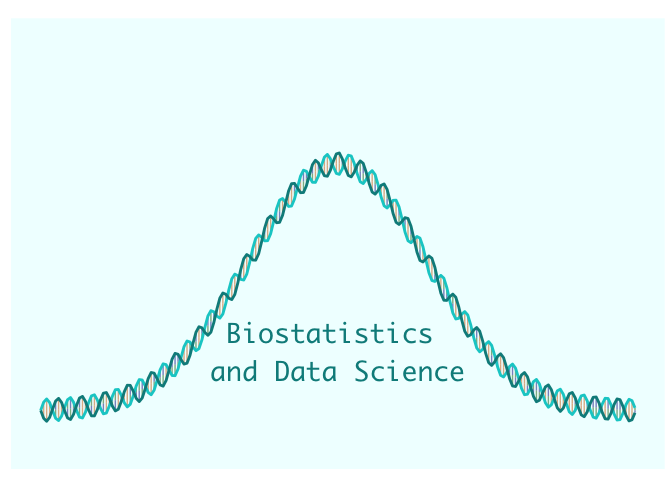
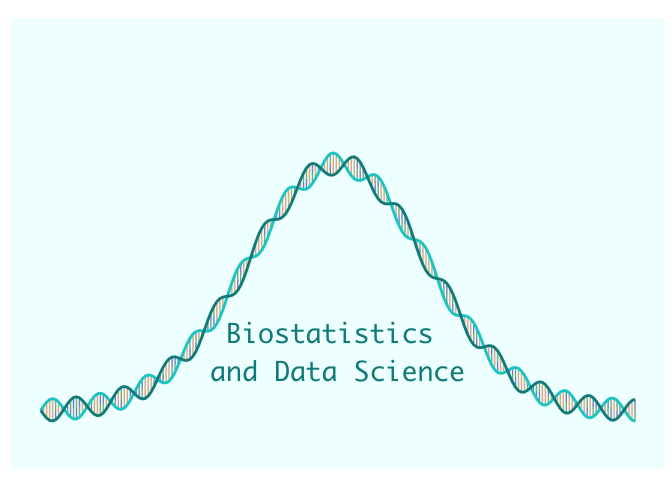
Added desintiy control to base pairs

Changed region(s): [[0.0625, 0.3125, 0.9688, 0.9062]]

diff --git a/README.md b/README.md
@@ -8,8 +8,9 @@ program it and plot it with ‘ggplot2’. It’s a pretty basic function with
 relatively self-explantory parameter inputs. Right now it can plot a
 Normal of Chisq distribution. Depending on how large of an image
 (i.e. pixel density) you want, you may have to play around with the
-axes, amplitude and frequency paramaters to get it to look right. Here’s
-the code for the primary function:
+axes, amplitude and frequency paramaters to get it to look right. You
+can also edit the color of the strands, basepair colors, and background
+color. Here’s the code for the primary function:
 
 ``` r
 # Generate Plot
@@ -19,6 +20,7 @@ p1 = generate_plot(Norm=T, #Logical: Show normal distribution
                    chisq_vals = c(3,0 ), #vector of DF and non centrality for chi-sq (Ignored if Chisq=F)
                    amp=0.015,  #amplitude of SIN wave to create double helix; adjusts height of strand
                    freq=10, #frequency of SIN wave to create double helix; adjusts width of strands
+                   bp_density = 200, #how dense the base-pairs between strands appear (200 is default; higher = more dense)
                    xlims= c(0,8), # vector of min and max x-values for distribution generation and plot
                    ylims= c(-0.05, .5),  #vector of y limits for height of plot
                    text="Biostatistics \nand Data Science",  #optional text to add to plot
@@ -26,7 +28,7 @@ p1 = generate_plot(Norm=T, #Logical: Show normal distribution
                    text_size=7
                    #helix_cols = c("cyan3", "cyan4", "firebrick2", "firebrick4"), #color of helix strands
                    #basepair_cols = c("darkorange3", "darkred", "darkblue", "darkgreen"), #color of basepairs connections
-                   #background_col = 'azure1'
+                   #background_col = "azure1"
                    )
 ```
 
@@ -50,7 +52,8 @@ p1 = generate_plot(Norm=T, #Logical: Show normal distribution
                    norm_vals = c(4, 1.2), #vector of mean and sd for Normal dist (ignored if Norm=F)
                    chisq_vals = c(3,0 ), #vector of DF and non centrality for chi-sq (Ignored if Chisq=F)
                    amp=0.015,  #amplitude of SIN wave to create double helix; adjusts height of strand
-                   freq=10, #frequency of SIN wave to create double helix; adjusts width of strands
+                    freq=10, #frequency of SIN wave to create double helix; adjusts width of strands
+                   bp_density = 200, #how dense the base-pairs between strands appear (200 is default; higher = more dense)
                    xlims= c(0,8), # vector of min and max x-values for distribution generation and plot
                    ylims= c(-0.05, .5),  #vector of y limits for height of plot
                    text="Biostatistics \nand Data Science",  #optional text to add to plot
@@ -81,7 +84,8 @@ p1 = generate_plot(Norm=T, #Logical: Show normal distribution
                    norm_vals = c(4, 1.2), #vector of mean and sd for Normal dist (ignored if Norm=F)
                    chisq_vals = c(3,0 ), #vector of DF and non centrality for chi-sq (Ignored if Chisq=F)
                    amp=0.015,  #amplitude of SIN wave to create double helix; adjusts height of strand
-                   freq=20, #frequency of SIN wave to create double helix; adjusts width of strands
+                    freq=10, #frequency of SIN wave to create double helix; adjusts width of strands
+                   bp_density = 200, #how dense the base-pairs between strands appear (200 is default; higher = more dense)
                    xlims= c(0,8), # vector of min and max x-values for distribution generation and plot
                    ylims= c(-0.05, .5),  #vector of y limits for height of plot
                    text="Biostatistics \nand Data Science",  #optional text to add to plot
@@ -101,6 +105,37 @@ and here is the plot:
 
 </center>
 
+Now let’s space out the base-pairs segments a little bit by lessening
+the “bp_density” parameter from 200 to 150
+
+``` r
+# Generate Plot
+p1 = generate_plot(Norm=T, #Logical: Show normal distribution
+                   Chisq=F, #Logical: show Chi-Square distribution
+                   norm_vals = c(4, 1.2), #vector of mean and sd for Normal dist (ignored if Norm=F)
+                   chisq_vals = c(3,0 ), #vector of DF and non centrality for chi-sq (Ignored if Chisq=F)
+                   amp=0.015,  #amplitude of SIN wave to create double helix; adjusts height of strand
+                    freq=10, #frequency of SIN wave to create double helix; adjusts width of strands
+                   bp_density = 150, #how dense the base-pairs between strands appear (200 is default; higher = more dense)
+                   xlims= c(0,8), # vector of min and max x-values for distribution generation and plot
+                   ylims= c(-0.05, .5),  #vector of y limits for height of plot
+                   text="Biostatistics \nand Data Science",  #optional text to add to plot
+                   text_pos = c(4,.08), #vector of (x,y) coordinates for text on plot
+                   text_size=7
+                   #helix_cols = c("cyan3", "cyan4", "firebrick2", "firebrick4"), #color of helix strands
+                   #basepair_cols = c("darkorange3", "darkred", "darkblue", "darkgreen"), #color of basepairs connections
+                   #background_col = 'azure1'
+                   )
+```
+
+and here is the plot:
+
+<center>
+
+![](README_files/figure-gfm/plot3b-1.png)<!-- -->
+
+</center>
+
 And lastly, let’s say we want the height of the strand to increase, we
 can increase the amplitude parameter ‘amp’ from 0.015 to 0.030.
 
@@ -111,7 +146,8 @@ p1 = generate_plot(Norm=T, #Logical: Show normal distribution
                    norm_vals = c(4, 1.2), #vector of mean and sd for Normal dist (ignored if Norm=F)
                    chisq_vals = c(3,0 ), #vector of DF and non centrality for chi-sq (Ignored if Chisq=F)
                    amp=0.03,  #amplitude of SIN wave to create double helix; adjusts height of strand
-                   freq=10, #frequency of SIN wave to create double helix; adjusts width of strands
+                    freq=10, #frequency of SIN wave to create double helix; adjusts width of strands
+                   bp_density = 200, #how dense the base-pairs between strands appear (200 is default; higher = more dense)
                    xlims= c(0,8), # vector of min and max x-values for distribution generation and plot
                    ylims= c(-0.05, .5),  #vector of y limits for height of plot
                    text="Biostatistics \nand Data Science",  #optional text to add to plot
